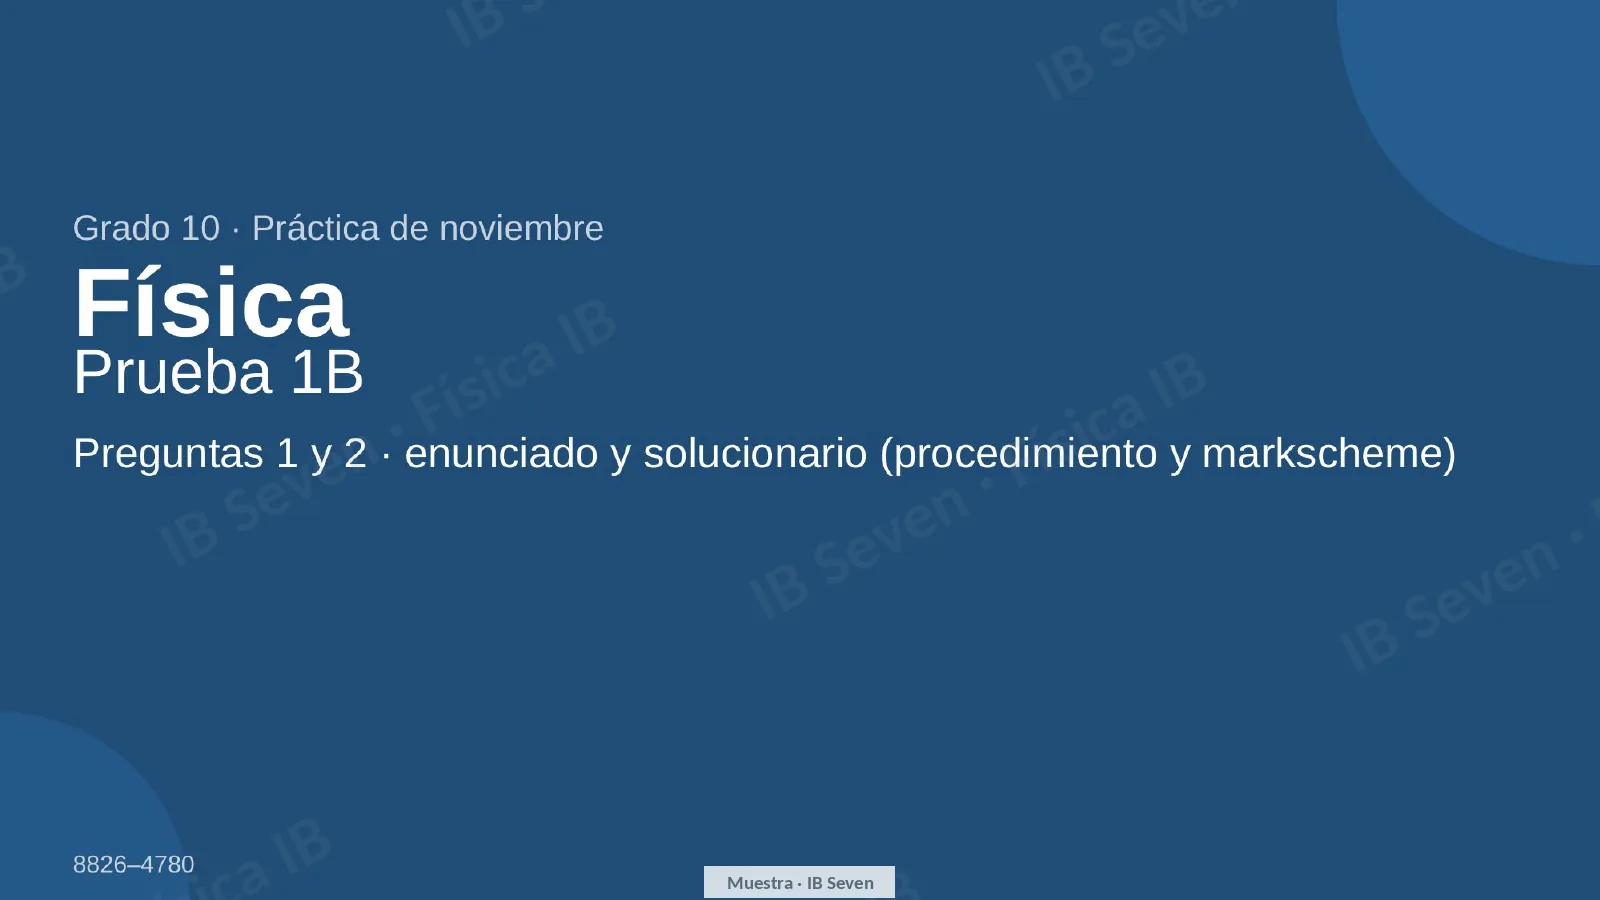
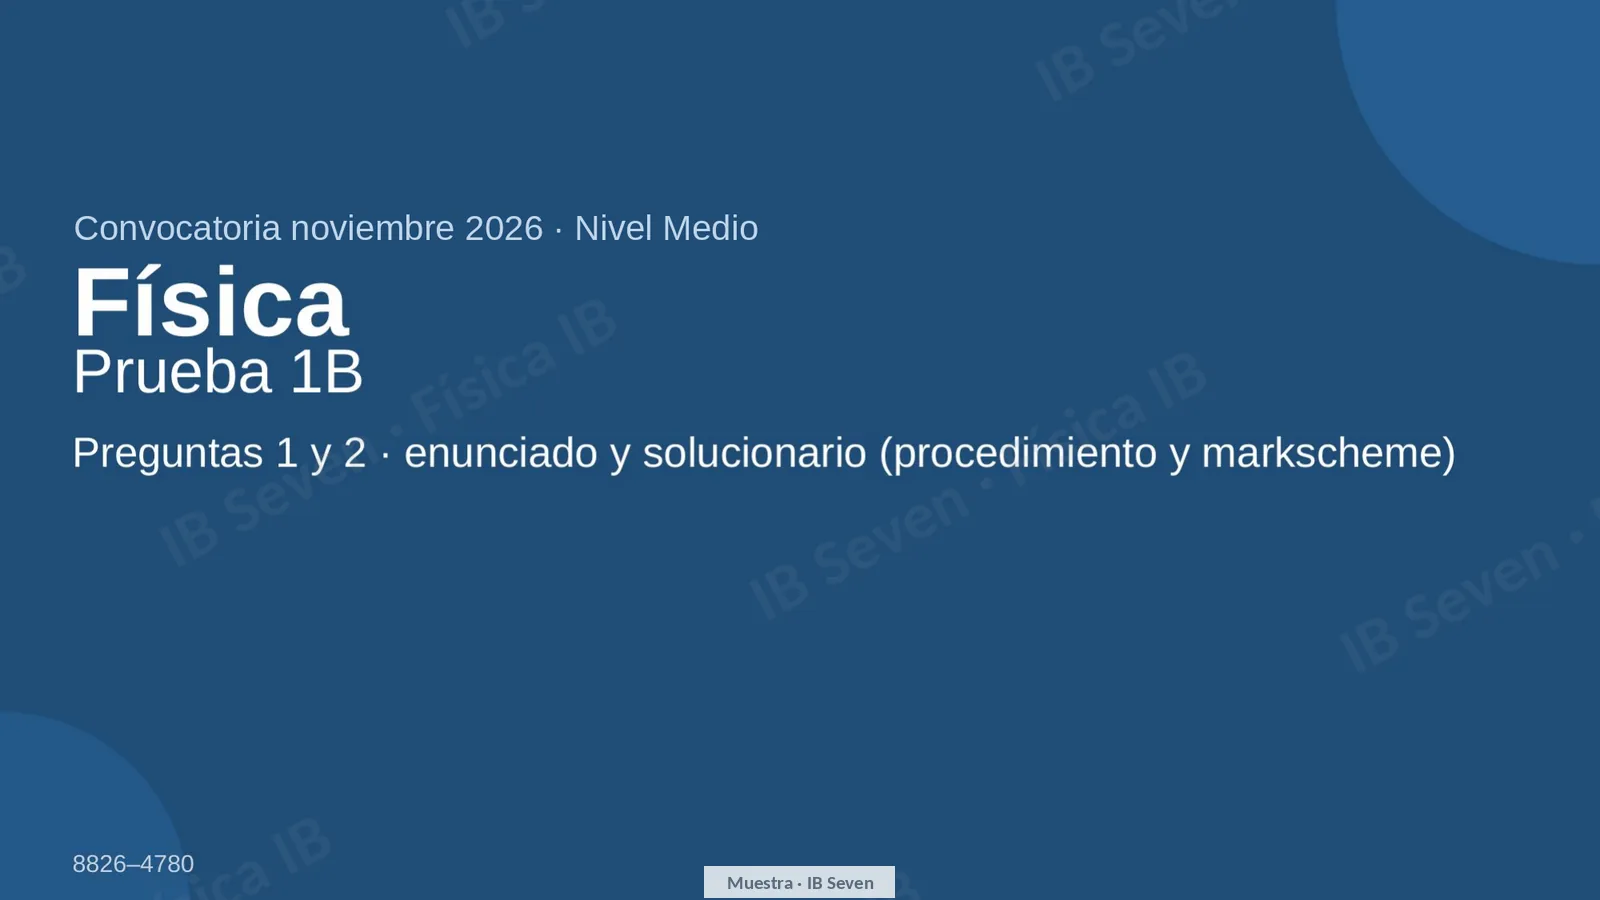
Noviembre 2026: portadas con «Convocatoria noviembre 2026 · Nivel Medio» y «Prueba 1A»
Claude-Session: https://claude.ai/code/session_01Bb57NtDnNEE8eNFgHQis36

diff --git a/sims/A.2-fuerzas/index.html b/sims/A.2-fuerzas/index.html
@@ -6,9 +6,9 @@
 <link rel="icon" type="image/png" href="../../favicon.png?v=1">
 <title>Diagramas de cuerpo libre y segunda ley · A.2</title>
 <meta name="description" content="Simulación de las leyes de Newton: diagramas de cuerpo libre, rozamiento estático y dinámico, plano inclinado, ascensor, máquina de Atwood, dos cuerdas y velocidad terminal.">
-<link rel="stylesheet" href="../../comun/estilo.css?v=202611191100">
-<script src="../../comun/docentes.js?v=202611191100"></script>
-<link rel="stylesheet" href="sim.css?v=202611191100">
+<link rel="stylesheet" href="../../comun/estilo.css?v=202611191114">
+<script src="../../comun/docentes.js?v=202611191114"></script>
+<link rel="stylesheet" href="sim.css?v=202611191114">
 </head>
 <body>
 <header class="barra">
@@ -189,16 +189,16 @@
 
 <footer class="pie">Física · Programa del Diploma · Laboratorio de Física IB</footer>
 
-<script src="../../comun/cinematica.js?v=202611191100"></script>
-<script src="../../comun/dinamica.js?v=202611191100"></script>
-<script src="../../comun/graficas.js?v=202611191100"></script>
-<script src="niveles.js?v=202611191100"></script>
-<script src="escena.js?v=202611191100"></script>
-<script src="construir-datos.js?v=202611191100"></script>
-<script src="construir-corrector.js?v=202611191100"></script>
-<script src="sim.js?v=202611191100"></script>
-<script src="practicar-ejercicios.js?v=202611191100"></script>
-<script src="construir.js?v=202611191100"></script>
-<script src="practicar.js?v=202611191100"></script>
+<script src="../../comun/cinematica.js?v=202611191114"></script>
+<script src="../../comun/dinamica.js?v=202611191114"></script>
+<script src="../../comun/graficas.js?v=202611191114"></script>
+<script src="niveles.js?v=202611191114"></script>
+<script src="escena.js?v=202611191114"></script>
+<script src="construir-datos.js?v=202611191114"></script>
+<script src="construir-corrector.js?v=202611191114"></script>
+<script src="sim.js?v=202611191114"></script>
+<script src="practicar-ejercicios.js?v=202611191114"></script>
+<script src="construir.js?v=202611191114"></script>
+<script src="practicar.js?v=202611191114"></script>
 </body>
 </html>

diff --git a/sims/A.1-proyectiles/index.html b/sims/A.1-proyectiles/index.html
@@ -6,9 +6,9 @@
 <link rel="icon" type="image/png" href="../../favicon.png?v=1">
 <title>Movimiento de proyectiles · A.1</title>
 <meta name="description" content="Simulación de movimiento de proyectiles: lanzador de laboratorio, componentes de la velocidad, alcance y altura máxima.">
-<link rel="stylesheet" href="../../comun/estilo.css?v=202611191100">
-<script src="../../comun/docentes.js?v=202611191100"></script>
-<link rel="stylesheet" href="sim.css?v=202611191100">
+<link rel="stylesheet" href="../../comun/estilo.css?v=202611191114">
+<script src="../../comun/docentes.js?v=202611191114"></script>
+<link rel="stylesheet" href="sim.css?v=202611191114">
 </head>
 <body>
 <header class="barra">
@@ -173,12 +173,12 @@
 
 <footer class="pie">Física · Programa del Diploma · Laboratorio de Física IB</footer>
 
-<script src="../../comun/cinematica.js?v=202611191100"></script>
-<script src="../../comun/proyectil.js?v=202611191100"></script>
-<script src="../../comun/graficas.js?v=202611191100"></script>
-<script src="escena.js?v=202611191100"></script>
-<script src="sim.js?v=202611191100"></script>
-<script src="ejercicios.js?v=202611191100"></script>
-<script src="practicar.js?v=202611191100"></script>
+<script src="../../comun/cinematica.js?v=202611191114"></script>
+<script src="../../comun/proyectil.js?v=202611191114"></script>
+<script src="../../comun/graficas.js?v=202611191114"></script>
+<script src="escena.js?v=202611191114"></script>
+<script src="sim.js?v=202611191114"></script>
+<script src="ejercicios.js?v=202611191114"></script>
+<script src="practicar.js?v=202611191114"></script>
 </body>
 </html>

diff --git a/sims/A.1-caida-libre/index.html b/sims/A.1-caida-libre/index.html
@@ -6,9 +6,9 @@
 <link rel="icon" type="image/png" href="../../favicon.png?v=1">
 <title>Ecuaciones del movimiento y caída libre · A.1</title>
 <meta name="description" content="Simulación de caída libre y lanzamiento vertical: las ecuaciones del movimiento con aceleración uniforme.">
-<link rel="stylesheet" href="../../comun/estilo.css?v=202611191100">
-<script src="../../comun/docentes.js?v=202611191100"></script>
-<link rel="stylesheet" href="sim.css?v=202611191100">
+<link rel="stylesheet" href="../../comun/estilo.css?v=202611191114">
+<script src="../../comun/docentes.js?v=202611191114"></script>
+<link rel="stylesheet" href="sim.css?v=202611191114">
 </head>
 <body>
 <header class="barra">
@@ -147,10 +147,10 @@
 
 <footer class="pie">Física · Programa del Diploma · Laboratorio de Física IB</footer>
 
-<script src="../../comun/cinematica.js?v=202611191100"></script>
-<script src="../../comun/proyectil.js?v=202611191100"></script>
-<script src="../../comun/graficas.js?v=202611191100"></script>
-<script src="escena.js?v=202611191100"></script>
-<script src="sim.js?v=202611191100"></script>
+<script src="../../comun/cinematica.js?v=202611191114"></script>
+<script src="../../comun/proyectil.js?v=202611191114"></script>
+<script src="../../comun/graficas.js?v=202611191114"></script>
+<script src="escena.js?v=202611191114"></script>
+<script src="sim.js?v=202611191114"></script>
 </body>
 </html>

diff --git a/sims/A.1-tres-graficas/index.html b/sims/A.1-tres-graficas/index.html
@@ -6,9 +6,9 @@
 <link rel="icon" type="image/png" href="../../favicon.png?v=1">
 <title>Un movimiento, tres gráficas · A.1</title>
 <meta name="description" content="Simulación de cinemática: un carrito y sus gráficas posición–tiempo, velocidad–tiempo y aceleración–tiempo.">
-<link rel="stylesheet" href="../../comun/estilo.css?v=202611191100">
-<script src="../../comun/docentes.js?v=202611191100"></script>
-<link rel="stylesheet" href="sim.css?v=202611191100">
+<link rel="stylesheet" href="../../comun/estilo.css?v=202611191114">
+<script src="../../comun/docentes.js?v=202611191114"></script>
+<link rel="stylesheet" href="sim.css?v=202611191114">
 </head>
 <body>
 <header class="barra">
@@ -189,10 +189,10 @@
 
 <footer class="pie">Física · Programa del Diploma · Laboratorio de Física IB</footer>
 
-<script src="../../comun/cinematica.js?v=202611191100"></script>
-<script src="dibujo.js?v=202611191100"></script>
-<script src="sim.js?v=202611191100"></script>
-<script src="ejercicios.js?v=202611191100"></script>
-<script src="practicar.js?v=202611191100"></script>
+<script src="../../comun/cinematica.js?v=202611191114"></script>
+<script src="dibujo.js?v=202611191114"></script>
+<script src="sim.js?v=202611191114"></script>
+<script src="ejercicios.js?v=202611191114"></script>
+<script src="practicar.js?v=202611191114"></script>
 </body>
 </html>

diff --git a/materiales/ver/index.html b/materiales/ver/index.html
@@ -6,8 +6,8 @@
 <title>Ver materiales · IB Seven</title>
 <meta name="description" content="Ficha del alumno, versión docente y presentación de Física IB completas, para hojear antes de pedirlas.">
 <link rel="icon" type="image/png" href="../../favicon.png?v=1">
-<link rel="stylesheet" href="../../comun/estilo.css?v=202611191100">
-<script src="../../comun/docentes.js?v=202611191100"></script>
+<link rel="stylesheet" href="../../comun/estilo.css?v=202611191114">
+<script src="../../comun/docentes.js?v=202611191114"></script>
 <script>if (/[?&]incrustado(=|&|$)/.test(location.search)) document.documentElement.classList.add('incrustado');</script>
 <style>
   html, body { height: 100%; }
@@ -181,10 +181,10 @@
   <div class="cuerpo"><div class="rejilla" id="rejilla"></div></div>
 </div>
 
-<script src="../A.1/datos.js?v=202611191100"></script>
-<script src="../N26-P1A/datos.js?v=202611191100"></script>
-<script src="../N26-P1B/datos.js?v=202611191100"></script>
-<script src="../N26-P2/datos.js?v=202611191100"></script>
+<script src="../A.1/datos.js?v=202611191114"></script>
+<script src="../N26-P1A/datos.js?v=202611191114"></script>
+<script src="../N26-P1B/datos.js?v=202611191114"></script>
+<script src="../N26-P2/datos.js?v=202611191114"></script>
 <script>
 (function () {
   'use strict';

diff --git a/materiales/index.html b/materiales/index.html
@@ -6,8 +6,8 @@
 <link rel="icon" type="image/png" href="../favicon.png?v=1">
 <title>Materiales para docentes · IB Seven</title>
 <meta name="description" content="Fichas, solucionarios y presentaciones de Física IB (Programa del Diploma, NM y NS) en español, listos para clase.">
-<link rel="stylesheet" href="../comun/estilo.css?v=202611191100">
-<script src="../comun/docentes.js?v=202611191100"></script>
+<link rel="stylesheet" href="../comun/estilo.css?v=202611191114">
+<script src="../comun/docentes.js?v=202611191114"></script>
 <style>
   .pagina { max-width: 1080px; margin: 0 auto; padding: 24px 20px 48px; display: grid; gap: 34px; }
   .barra .volver { background: transparent; color: #FFF; border-color: #FFF; }
@@ -374,8 +374,8 @@
 </div>
 
 
-<script src="../catalogo.js?v=202611191100"></script>
-<script src="contenido.js?v=202611191100"></script>
+<script src="../catalogo.js?v=202611191114"></script>
+<script src="contenido.js?v=202611191114"></script>
 <script>
   // Subtemas con materiales listos. Su contenido (páginas, apartados, preguntas) está en contenido.js.
   // «Ver completo» solo en los que tienen el visor con las tres piezas (MUESTRA).

diff --git a/index.html b/index.html
@@ -5,8 +5,8 @@
 <meta name="viewport" content="width=device-width, initial-scale=1">
 <title>Laboratorio de Física IB</title>
 <meta name="description" content="Simulaciones interactivas de Física IB (Programa del Diploma) para practicar.">
-<link rel="stylesheet" href="comun/estilo.css?v=202611191100">
-<script src="comun/docentes.js?v=202611191100"></script>
+<link rel="stylesheet" href="comun/estilo.css?v=202611191114">
+<script src="comun/docentes.js?v=202611191114"></script>
 <style>
   .portal { display: grid; grid-template-columns: 290px 1fr; min-height: calc(100vh - 56px); }
   .menu {
@@ -164,7 +164,7 @@
 
 <footer class="pie">Física · Programa del Diploma · IB Seven</footer>
 
-<script src="catalogo.js?v=202611191100"></script>
+<script src="catalogo.js?v=202611191114"></script>
 <script>
 (function () {
   const C = window.CATALOGO;

diff --git a/materiales/noviembre-2026/index.html b/materiales/noviembre-2026/index.html
@@ -6,8 +6,8 @@
 <meta name="viewport" content="width=device-width, initial-scale=1">
 <title>Física NM · Noviembre 2026 resuelta · IB Seven</title>
 <meta name="description" content="Recurso gratuito para docentes de Física IB: Pruebas 1A, 1B y 2 de Física NM de noviembre de 2026 resueltas paso a paso, con esquema de calificación y nota para el corrector.">
-<link rel="stylesheet" href="../../comun/estilo.css?v=202611191100">
-<script src="../../comun/docentes.js?v=202611191100"></script>
+<link rel="stylesheet" href="../../comun/estilo.css?v=202611191114">
+<script src="../../comun/docentes.js?v=202611191114"></script>
 <style>
   .pagina { max-width: 1320px; margin: 0 auto; padding: 24px 24px 48px; display: grid; gap: 28px; }
   .barra .volver { background: transparent; color: #FFF; border-color: #FFF; }
